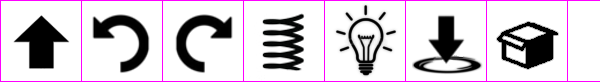
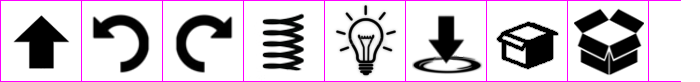
mise a jour pour le chest

diff --git a/src/UI/Gui.java b/src/UI/Gui.java
@@ -7,6 +7,7 @@ import org.jsfml.graphics.IntRect;
 import org.jsfml.graphics.Sprite;
 import org.jsfml.system.Vector2f;
 
+import Entities.Chest;
 import Game.Input;
 import Game.Ressources;
 import Game.Input.BUTTON;
@@ -49,10 +50,14 @@ public class Gui
 				spr.setTextureRect(new IntRect(325, 1, 80, 80));
 			else if (act instanceof Teleporter)
 				spr.setTextureRect(new IntRect(406, 1, 80, 80));
+			else if (act instanceof OpenChest)
+				spr.setTextureRect(new IntRect(487, 1, 80, 80));
+			else if (act instanceof UseChest)
+				spr.setTextureRect(new IntRect(568, 1, 80, 80));
 				
 			spriteList.add(spr);
 		}
-		
+	    System.out.println(spriteList.size());
 		nbrAction = nbrA;
 		nbrProc = nbrP;
 		actionList = nameList;

diff --git a/src/Prog/UseChest.java b/src/Prog/UseChest.java
@@ -2,9 +2,9 @@ package Prog;
 import Entities.Character;
 import Entities.Chest;
 
-public class useChest extends Action 
+public class UseChest extends Action 
 {
-	public useChest(Color c) {couleur = c;}
+	public UseChest(Color c) {couleur = c;}
 
 	public void execute (Character p) {
 		if ( (p.getColor() == Color.DEFAUT) || (p.getColor() == couleur) )
